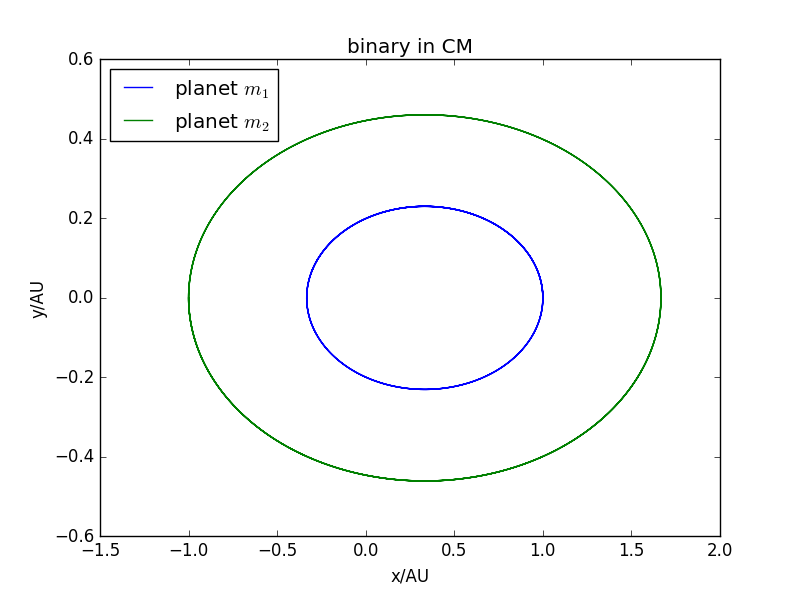
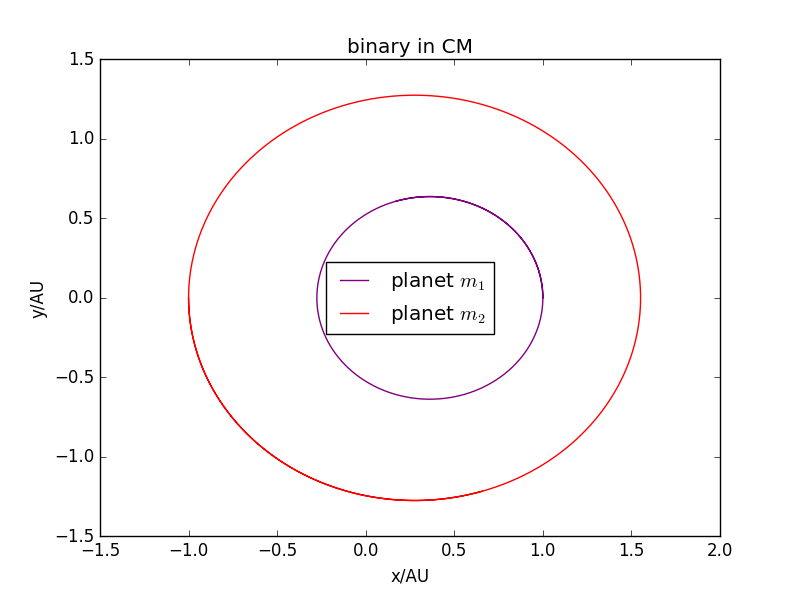
第十一次图

diff --git a/Chapter4/第一次/solar.py b/Chapter4/第一次/solar.py
@@ -5,7 +5,7 @@ import sys
 reload(sys)
 sys.setdefaultencoding('gb18030')
 class solar:
-    def __init__(self, beta = 3.0, end = 5,  Gms = 4*pi , k=1.0,pos_1 =array([1.,0.,0.]), pos_2 = array([-1.,0.,0.]), v_1 = array([0.,1.,0.]), v_2 = array([0.,-0.001,0.]), dt = .0001 ):
+    def __init__(self, beta = 3.0, end = 5,  Gms = 4*pi , k=0.5, v_2 = array([0.,-1/4,0.]),pos_1 =array([1.,0.,0.]), pos_2 = array([-1.,0.,0.]), v_1 = array([0.,1.,0.]), dt = .0001 ):
         self.m_1 = Gms
         self.m_2 = k*Gms
         self.beta = beta
@@ -37,13 +37,13 @@ class solar:
             self.y_2.append(self.pos_2[1])
             self.z_2.append(self.pos_2[2])          
  
-binary = solar(beta=.0,k=1000) 
+binary = solar(beta=3.0,k=4)
 binary.calculate()
 plot(binary.x_1,binary.y_1,label="planet $m_{1}$",color='purple')
 plot(binary.x_2,binary.y_2,label="planet $m_{2}$",color='red')
 title("binary in CM")
 xlabel('x/AU')
 ylabel('y/AU')
-legend(loc="upper righter")
+legend(loc="best")
 legend(loc = 'best')
 show()
